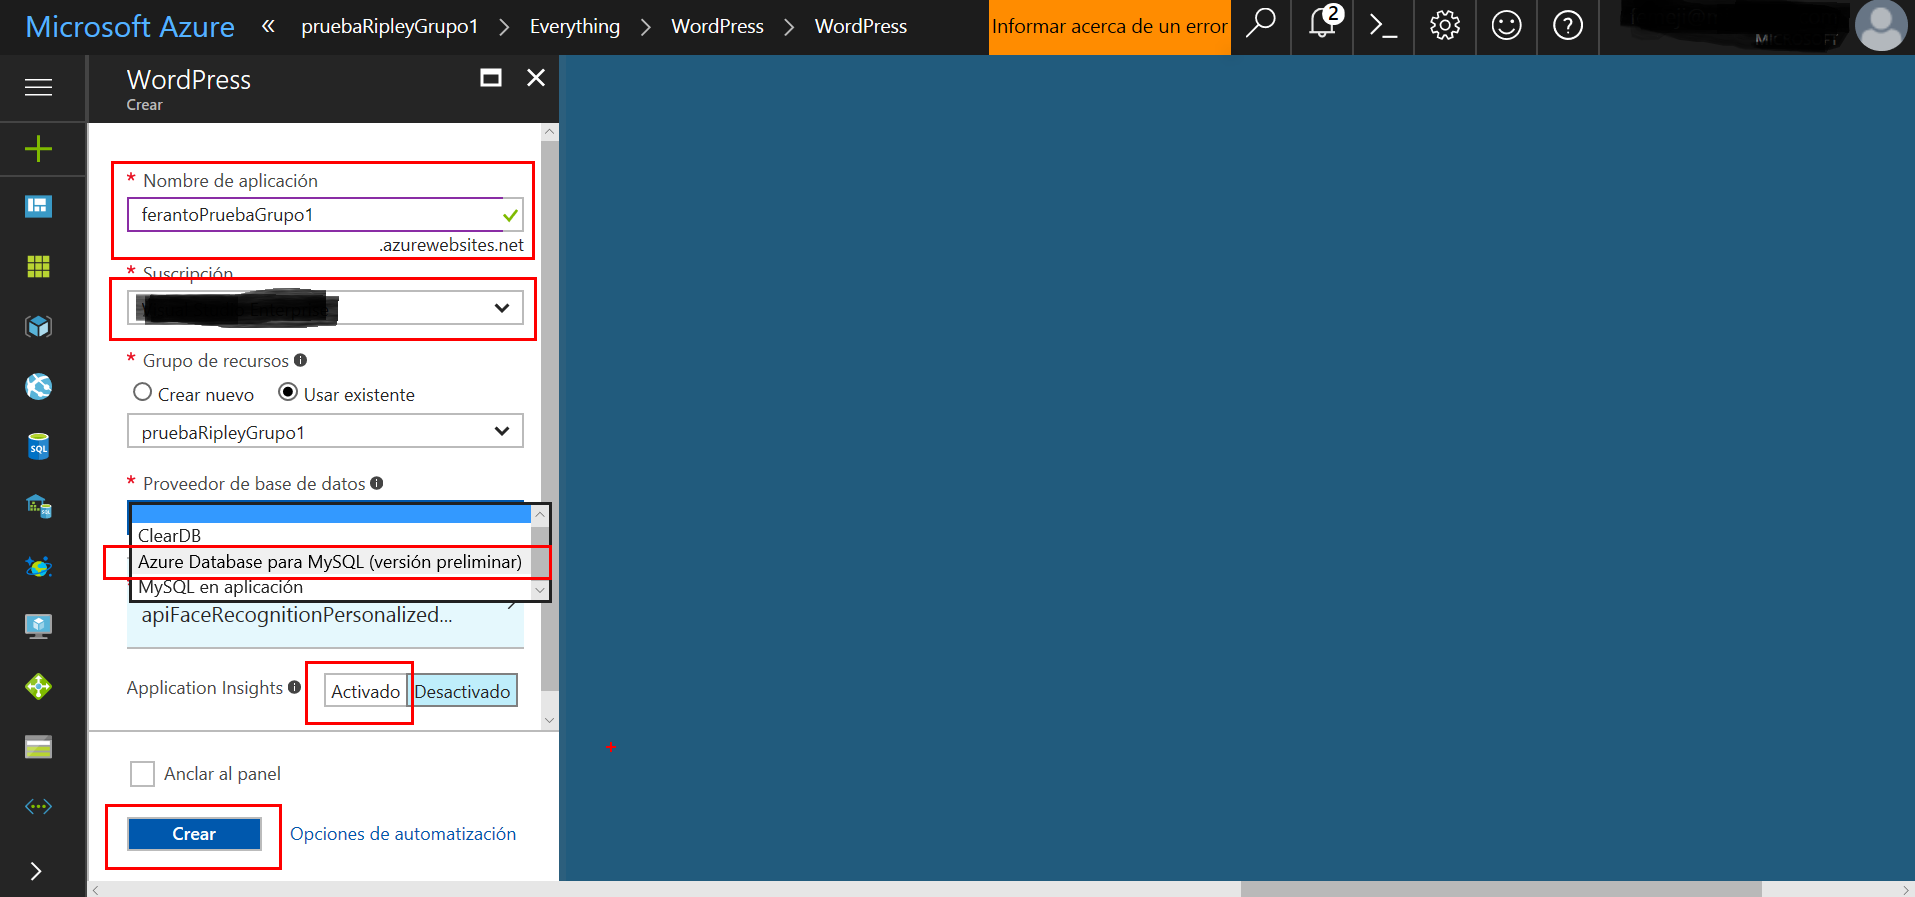
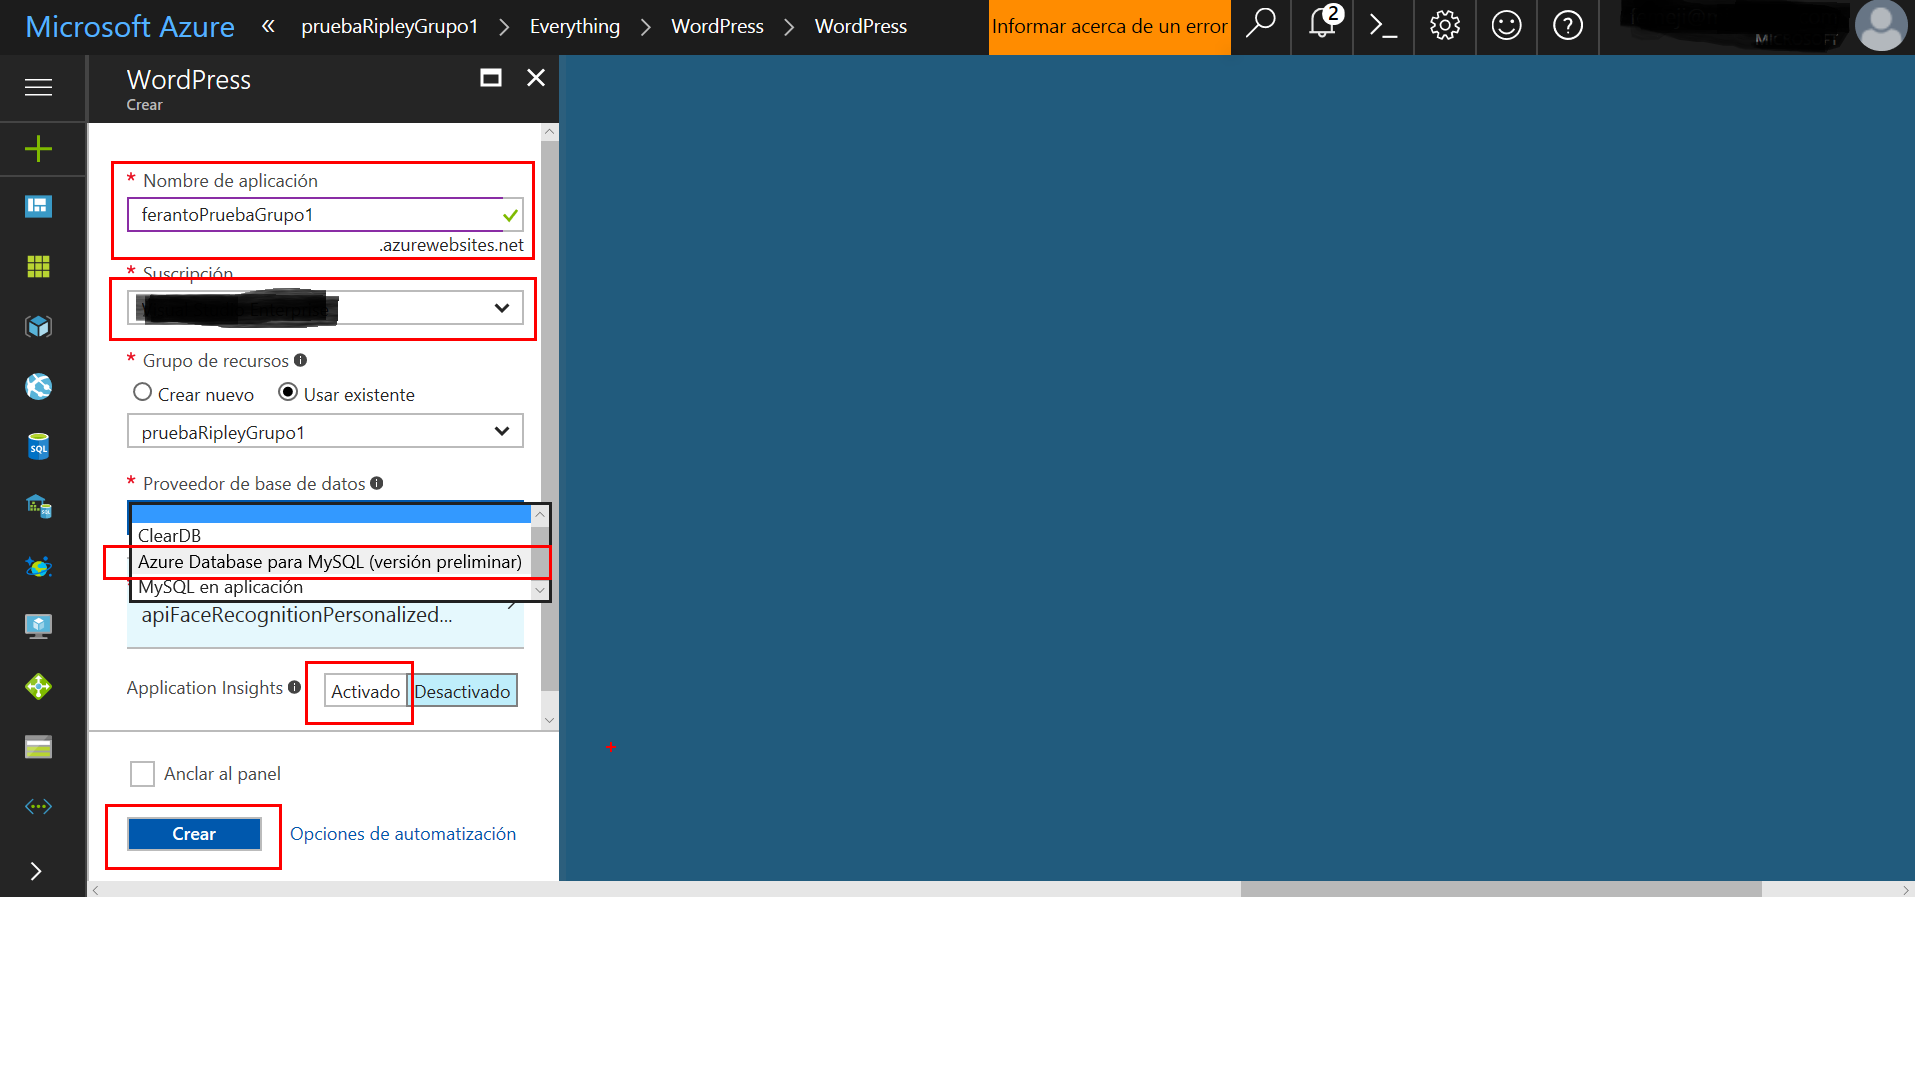
creacion wordpress4

diff --git a/solucionSimpleMarketing/README.md b/solucionSimpleMarketing/README.md
@@ -27,6 +27,9 @@ Los componentes dentro de Azure que utilizaremos para esta solución son los sig
 Al seleccionar la base de datos seleccionamos Azure MySQL
     <img src="https://raw.githubusercontent.com/feranto/azureDemos/master/solucionSimpleMarketing/imagenes/creacionWordpress3.png" data-canonical-src="https://raw.githubusercontent.com/feranto/azureDemos/master/solucionSimpleMarketing/imagenes/creacionWordpress3.png" width="649" height="338" alt="Creacion grupo de recursos" />
 
+Esperamos la implementación del Wordpress
+    <img src="https://raw.githubusercontent.com/feranto/azureDemos/master/solucionSimpleMarketing/imagenes/creacionWordpress4.png" data-canonical-src="https://raw.githubusercontent.com/feranto/azureDemos/master/solucionSimpleMarketing/imagenes/creacionWordpress4.png" width="649" height="338" alt="Creacion grupo de recursos" />
+
 
 4.  Una vez está el deployment listo procedemos a finalizar la instalación del Wordpress
     1.  En el portal de Azure abrimos el nuevo Wordpress
